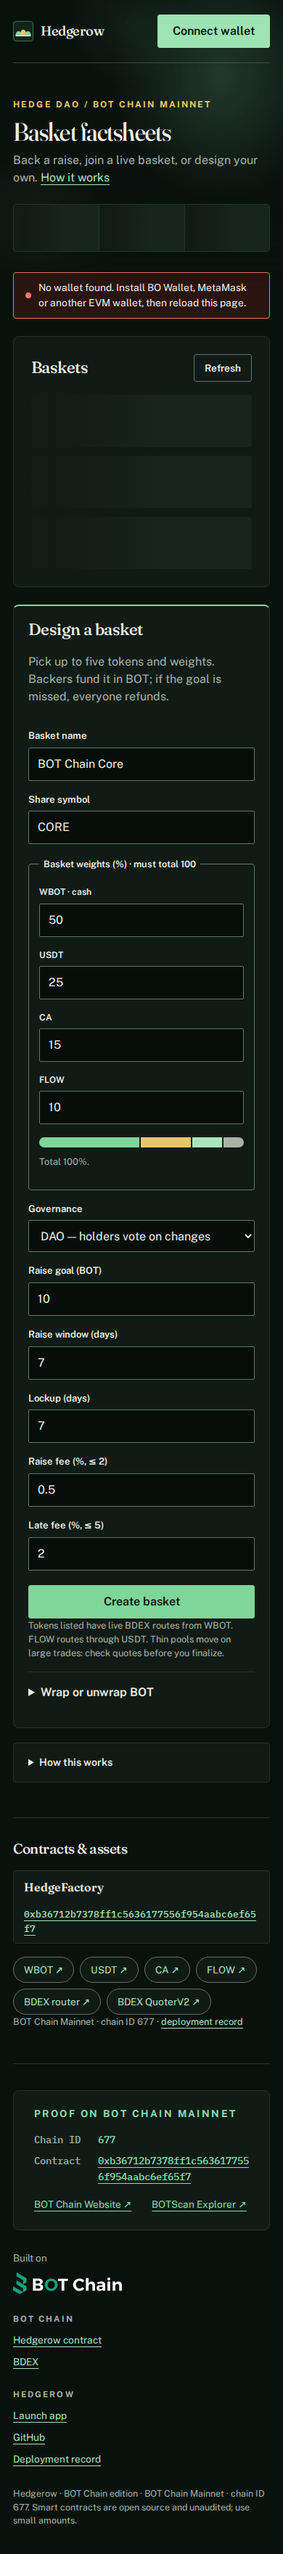
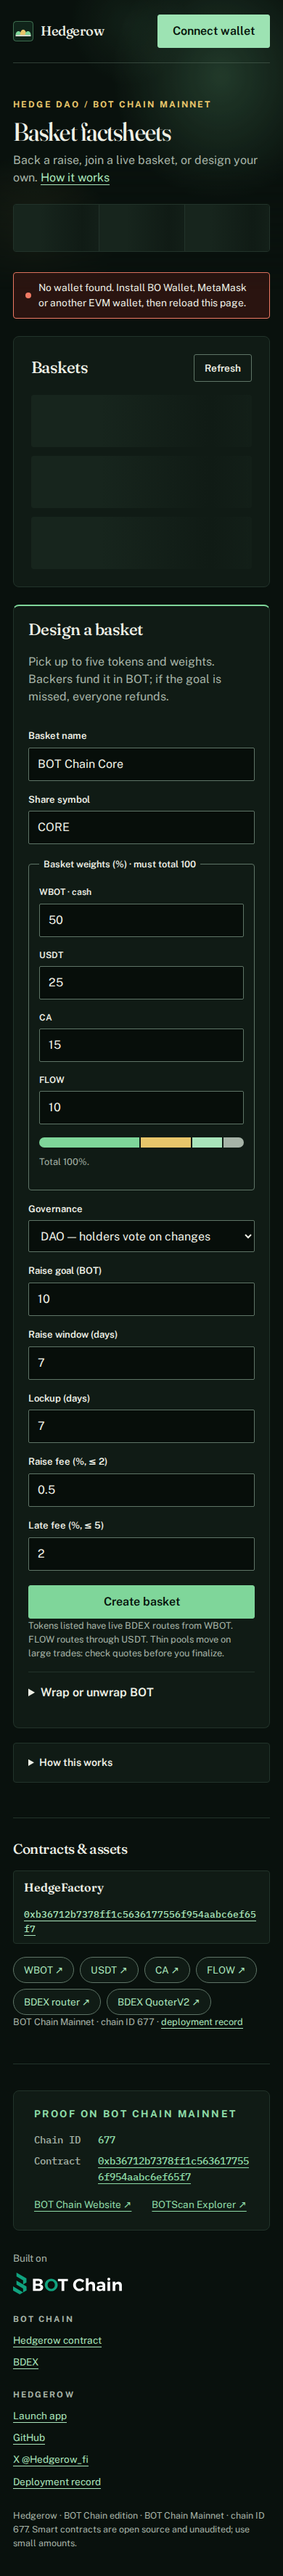
Add X handle to footer and docs

Changed region(s): [[0.0308, 0.2168, 0.9231, 0.9912], [0.0615, 0.031, 0.8923, 0.1549], [0.8615, 0.4646, 0.8923, 0.4956]]

diff --git a/README.md b/README.md
@@ -6,6 +6,7 @@
 
 - Website and app: https://hedgerowbot.vercel.app (app at [`/app/`](https://hedgerowbot.vercel.app/app/))
 - Network: BOT Chain mainnet, chain ID 677 · [BOT Chain](https://www.botchain.ai/) · [BOTScan](https://scan.botchain.ai/)
+- X: [@Hedgerow_fi](https://x.com/Hedgerow_fi)
 
 ![Hedgerow landing page](docs/hedgerow-landing-1280.png)
 
